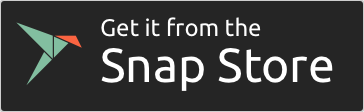
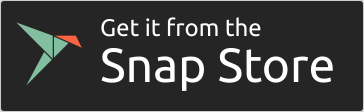
chore: use snap badge svg

diff --git a/README-de.md b/README-de.md
@@ -44,7 +44,7 @@ Entdecke einen völlig neuen Weg um mit Saber deine Gedanken zu sammeln und zu o
     alt="Get it as an AppImage"
     height=80>][download_appimage]
 &nbsp;
-[<img src="https://github.com/saber-notes/saber/blob/main/assets_raw/badges/snap-badge.png"
+[<img src="https://github.com/saber-notes/saber/blob/main/assets_raw/badges/snap-badge.svg"
     alt="Get it from the Snap Store"
     height=80>][snap]
 

diff --git a/README.md b/README.md
@@ -48,7 +48,7 @@ Discover a whole new way to capture and organize your thoughts with Saber. Wheth
     alt="Get it as an AppImage"
     height=80>][download_appimage]
 &nbsp;
-[<img src="https://github.com/saber-notes/saber/blob/main/assets_raw/badges/snap-badge.png"
+[<img src="https://github.com/saber-notes/saber/blob/main/assets_raw/badges/snap-badge.svg"
     alt="Get it from the Snap Store"
     height=80>][snap]
 

diff --git a/README-cs.md b/README-cs.md
@@ -44,7 +44,7 @@ Objevte úplně nové možnosti zachycování a organizování myšlenek s aplik
     alt="Stáhnout jako AppImage"
     height=80>][download_appimage]
 &nbsp;
-[<img src="https://github.com/saber-notes/saber/blob/main/assets_raw/badges/snap-badge.png"
+[<img src="https://github.com/saber-notes/saber/blob/main/assets_raw/badges/snap-badge.svg"
     alt="Stáhnout ze Snap Store"
     height=80>][snap]
 
